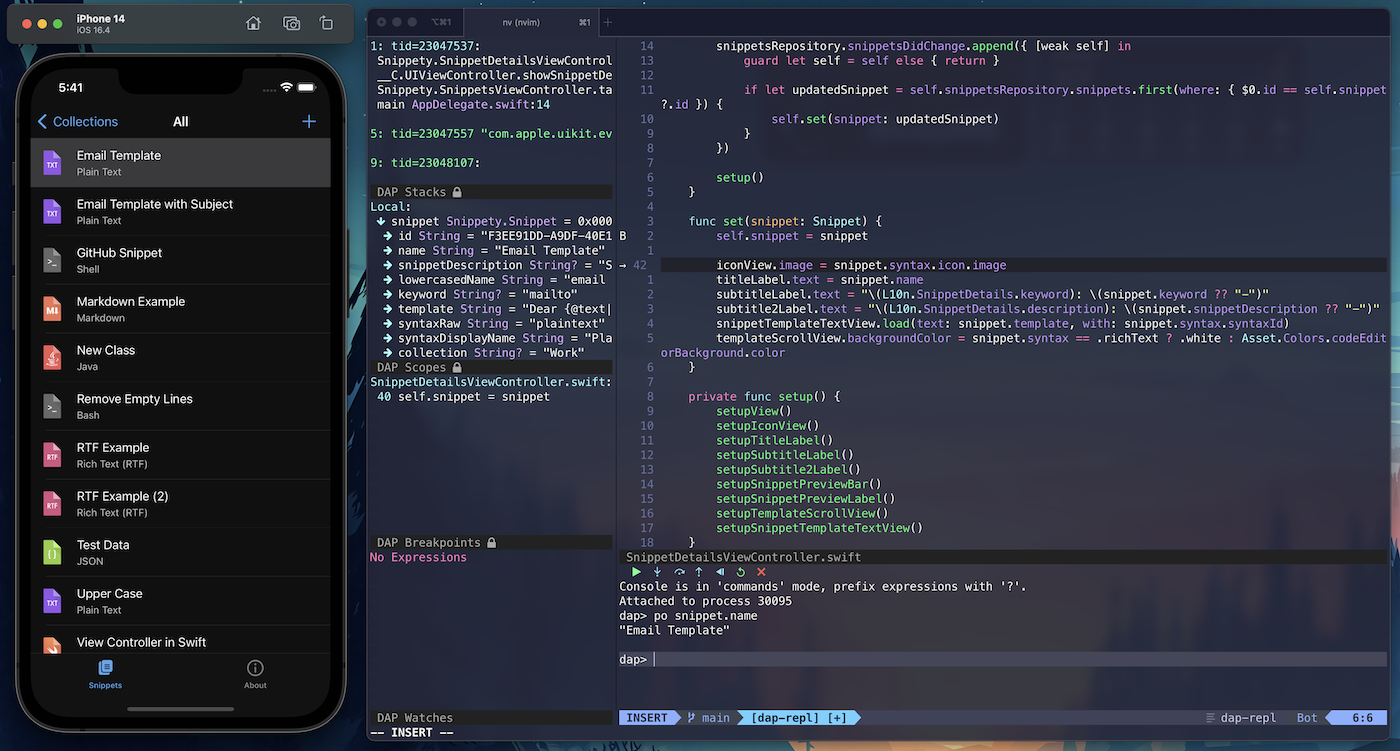
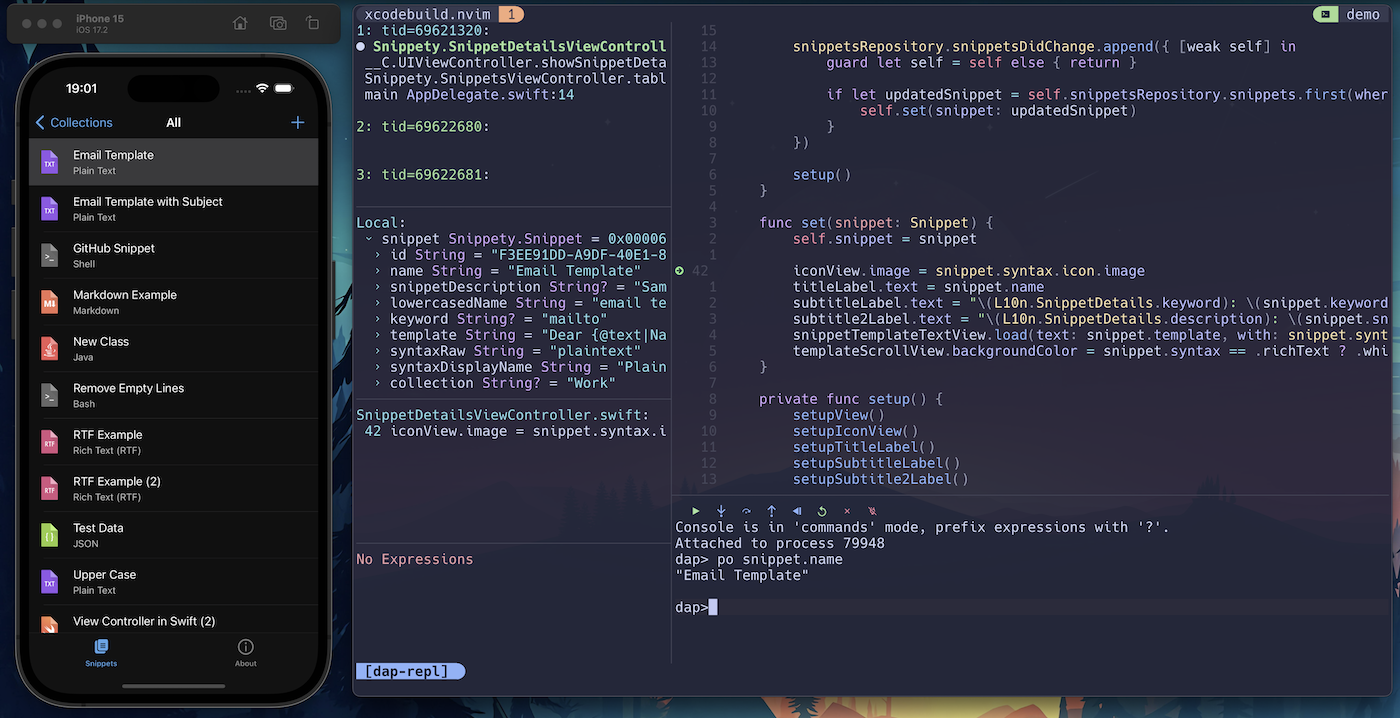
Updated README

Changed region(s): [[0.0, 0.0, 1.0, 1.0]]

diff --git a/README.md b/README.md
@@ -2,9 +2,9 @@
 
 A plugin that lets you move your iOS, iPadOS and macOS apps development to Neovim. It supports most of Xcode actions that are required to work with a project, including device selection, building, launching, and testing.
 
-![Xcodebuild Debugging](./media/tests.png)
+https://github.com/wojciech-kulik/xcodebuild.nvim/assets/3128467/3acdb8f7-0b51-4955-bdbc-25912ff3db80
 
-![Xcodebuild Testing](./media/debug.png)
+![Xcodebuild Debugging](./media/debug.png)
 
 ## 🚧 Disclaimer
 
@@ -23,6 +23,7 @@ It is also my first Neovim plugin. Hopefully, a good one 😁.
 - [x] Configuration wizard to setup: project file, scheme, config, device, and test plan.
 - [x] Built based on core command line tools like `xcodebuild` and `xcrun simctl`. It doesn't require any external tools, only `xcbeautify` to format logs, but it could be changed in configuration.
 - [x] Build, run and test actions.
+- [x] Test Explorer to visually present all tests and results.
 - [x] App deployment to selected iOS simulator.
 - [x] Uninstall mobile app.
 - [x] Running only selected tests (one test, one class, selected tests in visual mode, whole test plan).
@@ -178,12 +179,12 @@ return {
 
 #### Test File
 
-| Highlight Group                     | Description                     |
-| ----------------------------------- | ------------------------------- |
-| `XcodebuildTestSuccessSign`         | Test passed sign                |
-| `XcodebuildTestFailureSign`         | Test failed sign                |
-| `XcodebuildTestSuccessDurationSign` | Test duration for a passed test |
-| `XcodebuildTestFailureDurationSign` | Test duration for a failed test |
+| Highlight Group                     | Description                    |
+| ----------------------------------- | ------------------------------ |
+| `XcodebuildTestSuccessSign`         | Test passed sign               |
+| `XcodebuildTestFailureSign`         | Test failed sign               |
+| `XcodebuildTestSuccessDurationSign` | Test duration of a passed test |
+| `XcodebuildTestFailureDurationSign` | Test duration of a failed test |
 
 #### Test Explorer
 
@@ -195,7 +196,7 @@ return {
 | `XcodebuildTestExplorerTestInProgress`  | Test in progress sign  |
 | `XcodebuildTestExplorerTestPassed`      | Test passed sign       |
 | `XcodebuildTestExplorerTestFailed`      | Test failed sign       |
-| `XcodebuildTestExplorerTestDisabled`    | Disabled test sign     |
+| `XcodebuildTestExplorerTestDisabled`    | Test disabled sign     |
 | `XcodebuildTestExplorerTestNotExecuted` | Test not executed sign |
 
 #### Code Coverage (inline)
